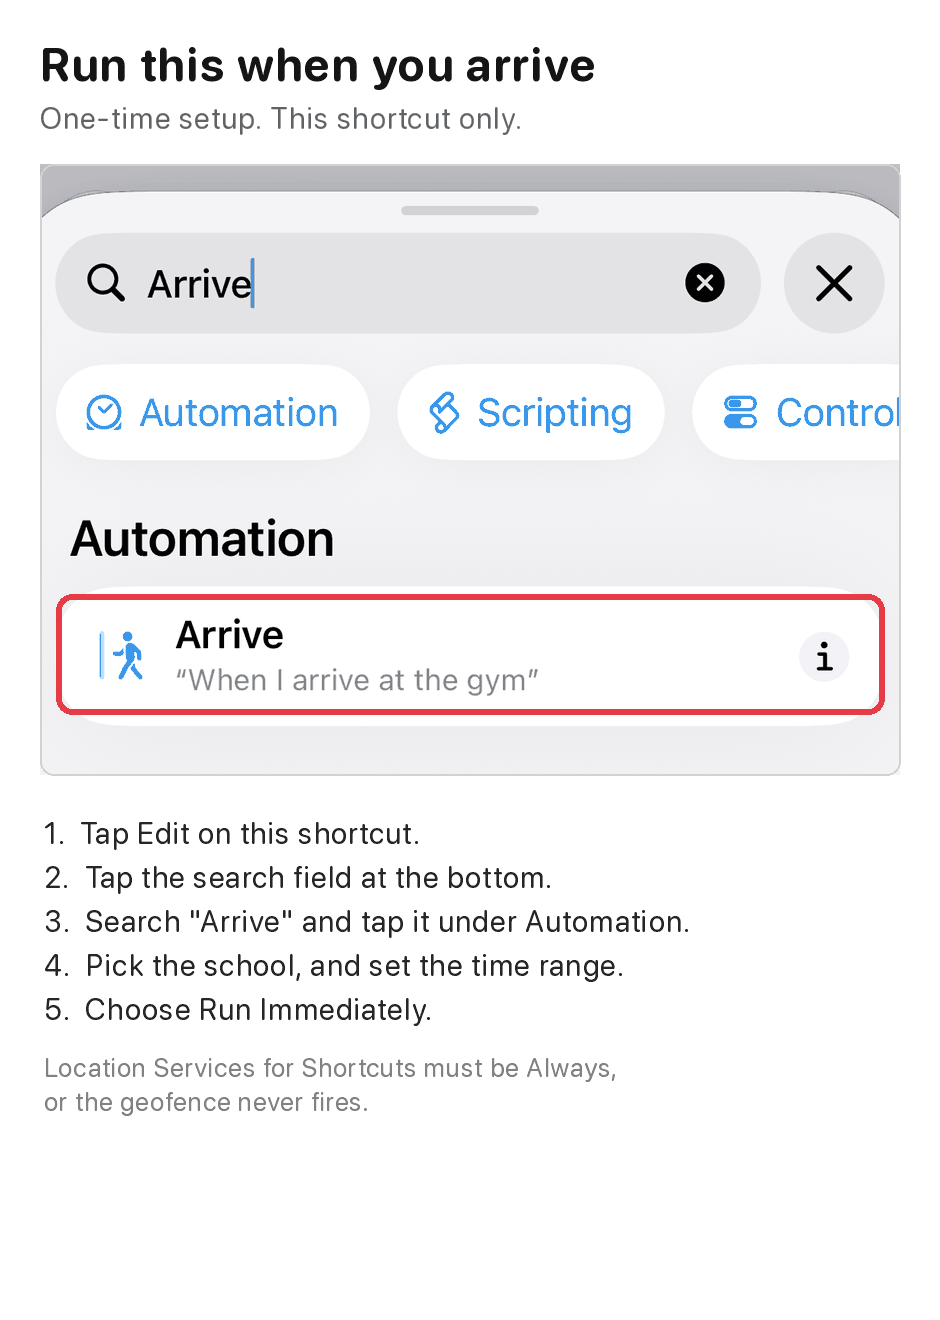
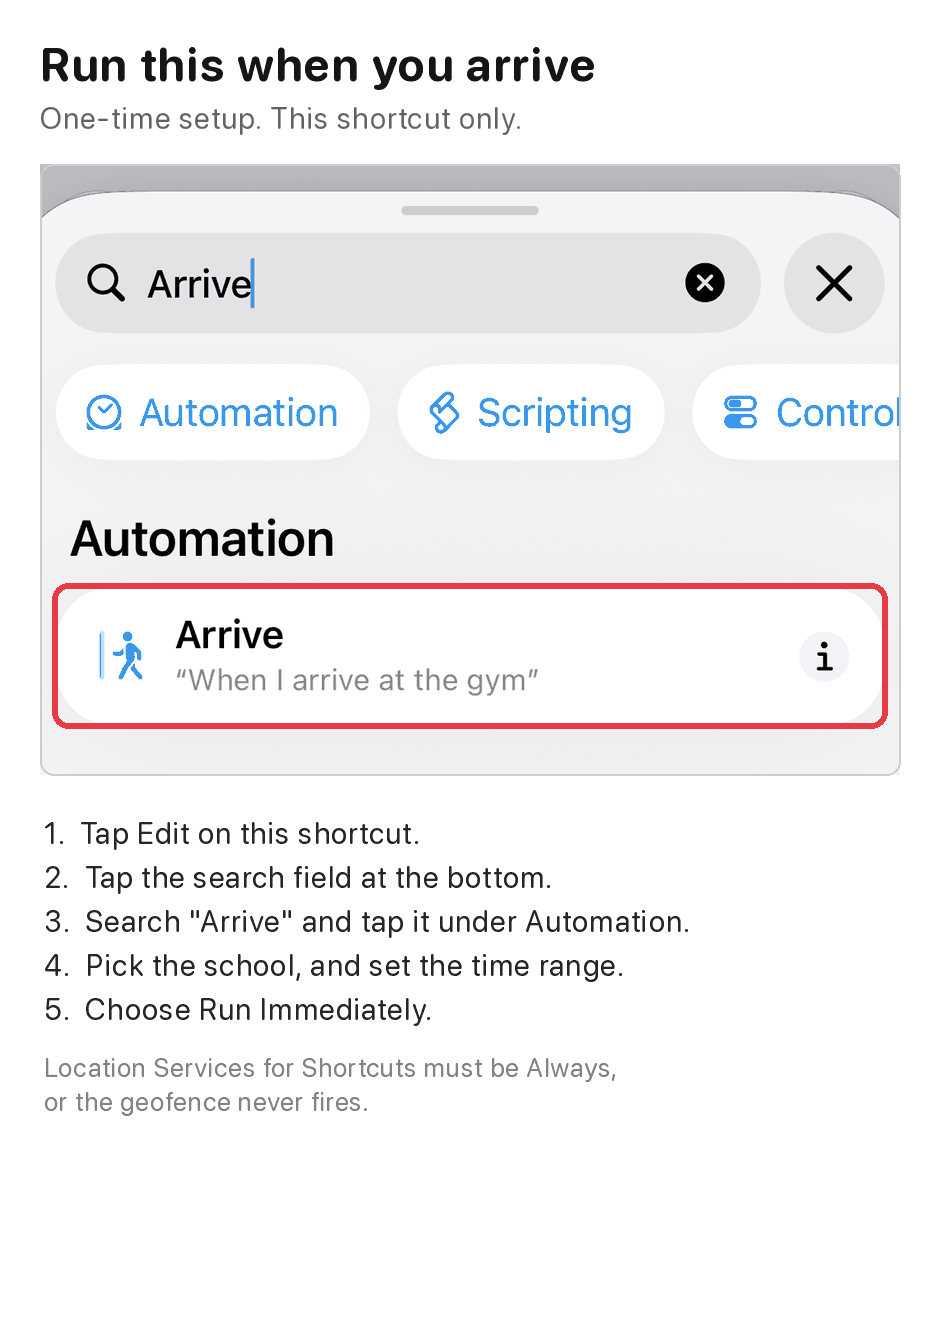
🐛 fix(diagrams): ring one measured rectangle in both setup guides
`PLAN` carried a separate hand-measured `row` per diagram — `(62, 714, 1146, 871)` for Check In and `(62, 705, 1146, 885)` for Check Out — but both screenshots are the same screen and differ only in the label inside that row. The card is at `(60, 703, 1145, 885)` in each, so Check In's ring cut 11px into the top of the card and 14px into the bottom while Check Out's sat around it.

Replaced both with a single measured `ROW`, outset 4px so the stroke sits outside the card. The red boxes in the two generated PNGs are now pixel-identical.

Claude-Session: https://claude.ai/code/session_017sMzJReUoznQFBgM6gf6BX

Changed region(s): [[0.0309, 0.4348, 0.9564, 0.5591]]

diff --git a/make_diagrams.py b/make_diagrams.py
@@ -18,15 +18,24 @@ from PIL import Image, ImageDraw, ImageFont
 HERE = pathlib.Path(__file__).parent
 ASSETS = HERE / "assets"
 
-# The action row to ring, measured in the source screenshots.
+# The action row to ring. Both screenshots are the same screen — they differ
+# only in the label inside this row — so the rectangle is measured once and
+# shared. Ringing them from two hand-measured rectangles is what made the two
+# diagrams disagree: one ring cut into the card, the other sat around it.
+#
+# Measured, not eyeballed: the card is the white rounded rect, found by scanning
+# for near-white at x=1000 (clear of the icon and the text) and along y=795.
+# Outset by 4px so the stroke sits outside the card instead of over its edge.
+ROW = (56, 699, 1149, 889)
+
 PLAN = {
     "check-in": {
-        "capture": "capture-arrive.png", "row": (62, 714, 1146, 871),
+        "capture": "capture-arrive.png",
         "title": "Run this when you arrive",
         "action": "Arrive",
     },
     "check-out": {
-        "capture": "capture-leave.png", "row": (62, 705, 1146, 885),
+        "capture": "capture-leave.png",
         "title": "Run this when you leave",
         "action": "Leave",
     },
@@ -68,7 +77,7 @@ def draw(kind, spec):
     canvas.paste(crop, (40, top))
     d.rounded_rectangle((40, top, 40 + WIDTH, top + crop.height), radius=14,
                         outline=(205, 205, 205), width=2)
-    x0, y0, x1, y1 = spec["row"]
+    x0, y0, x1, y1 = ROW
     d.rounded_rectangle((40 + int((x0 - CROP[0]) * scale),
                          top + int((y0 - CROP[1]) * scale),
                          40 + int((x1 - CROP[0]) * scale),
